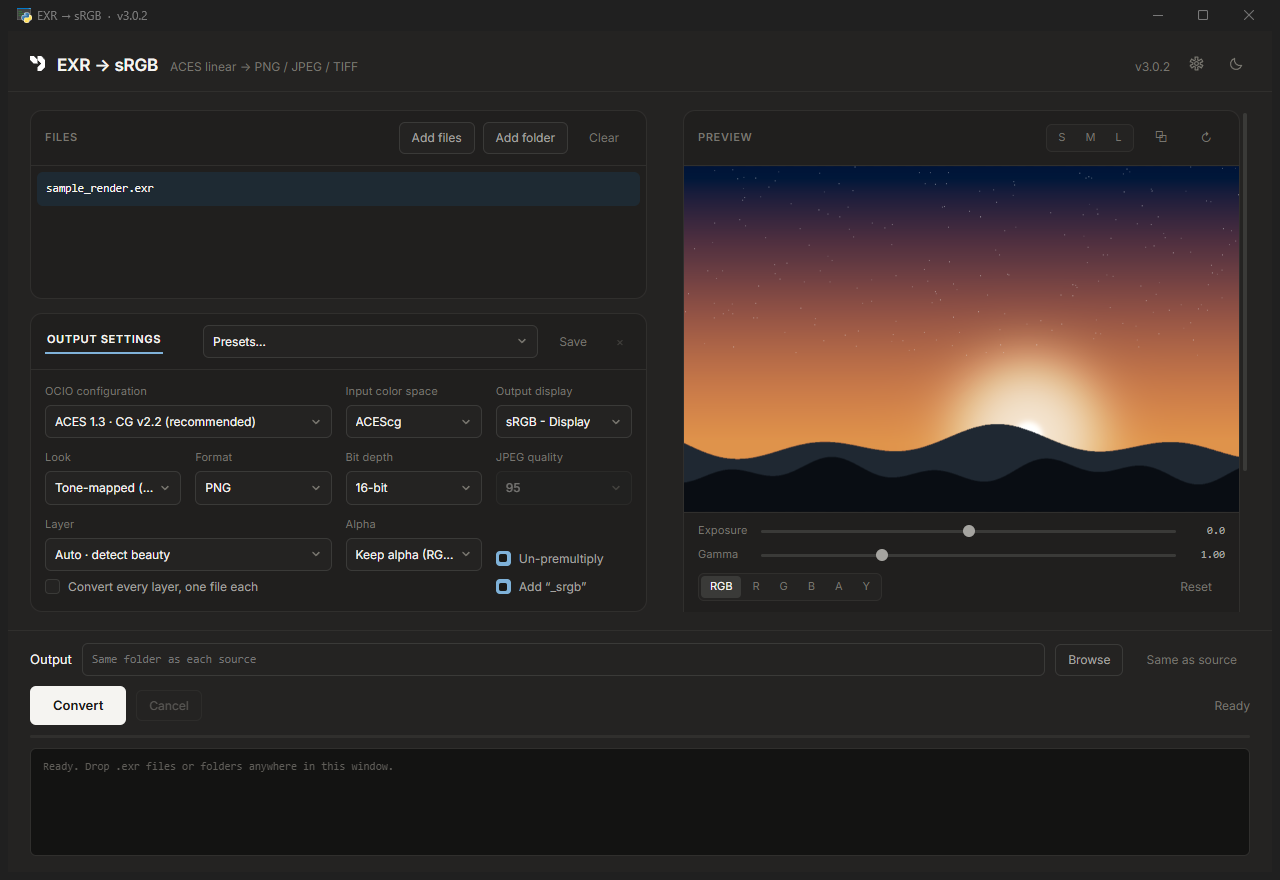
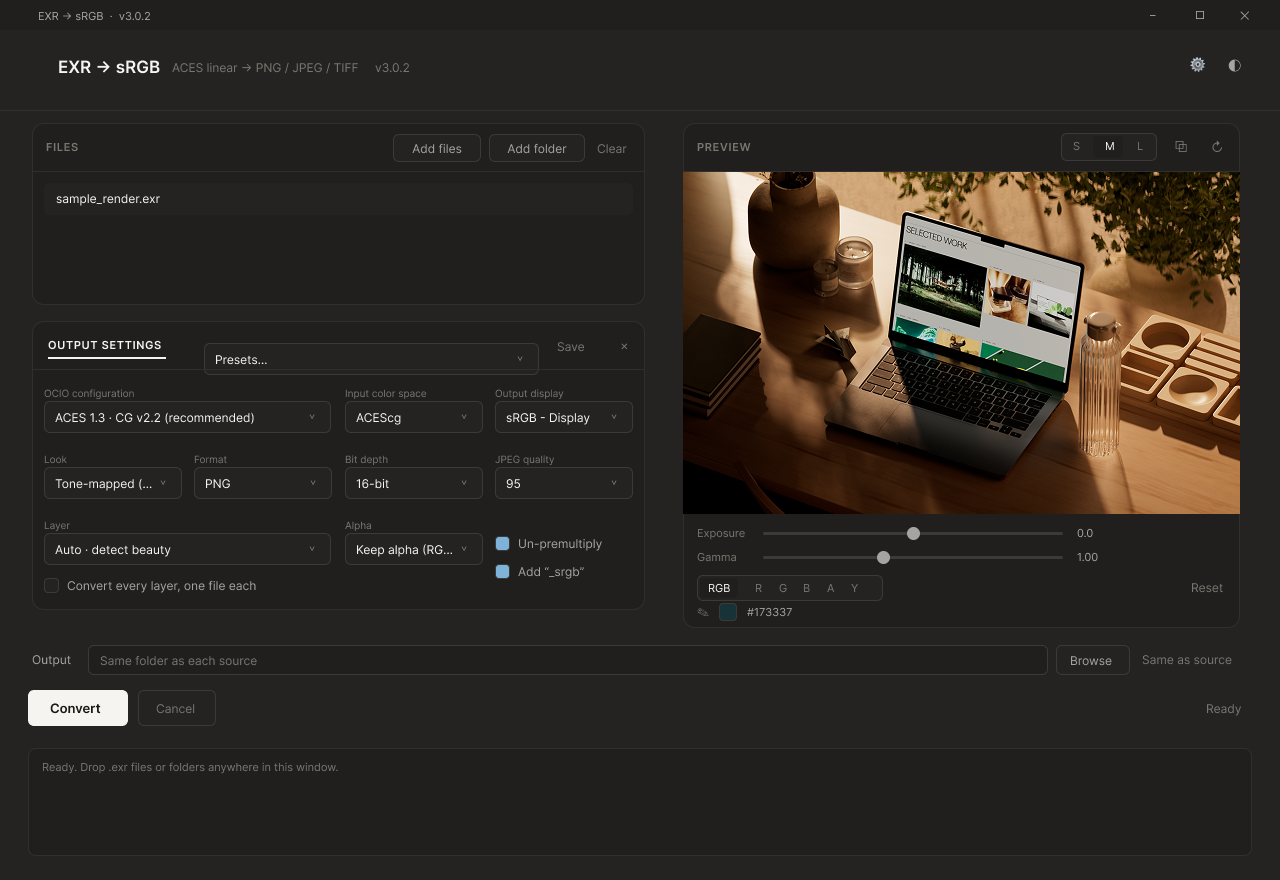
Use the real render in the README screenshots
Replaces the generated stand-ins with mockups built from an actual
render, so the images at the top of the page show the tool doing the
thing it is for rather than a gradient standing in for one. Both carry
the version label in its new position beside the subtitle.

Version bumped for the title bar change that shipped with them.

diff --git a/exr2srgb.py b/exr2srgb.py
@@ -30,7 +30,7 @@ from webview.dom import DOMEventHandler
 import core
 
 APP_NAME = "EXR → sRGB"
-VERSION = "3.0.2"
+VERSION = "3.0.3"
 
 # _MEIPASS only exists in a frozen build; from source this is the repo folder.
 BASE_DIR = getattr(sys, "_MEIPASS", os.path.dirname(os.path.abspath(__file__)))
